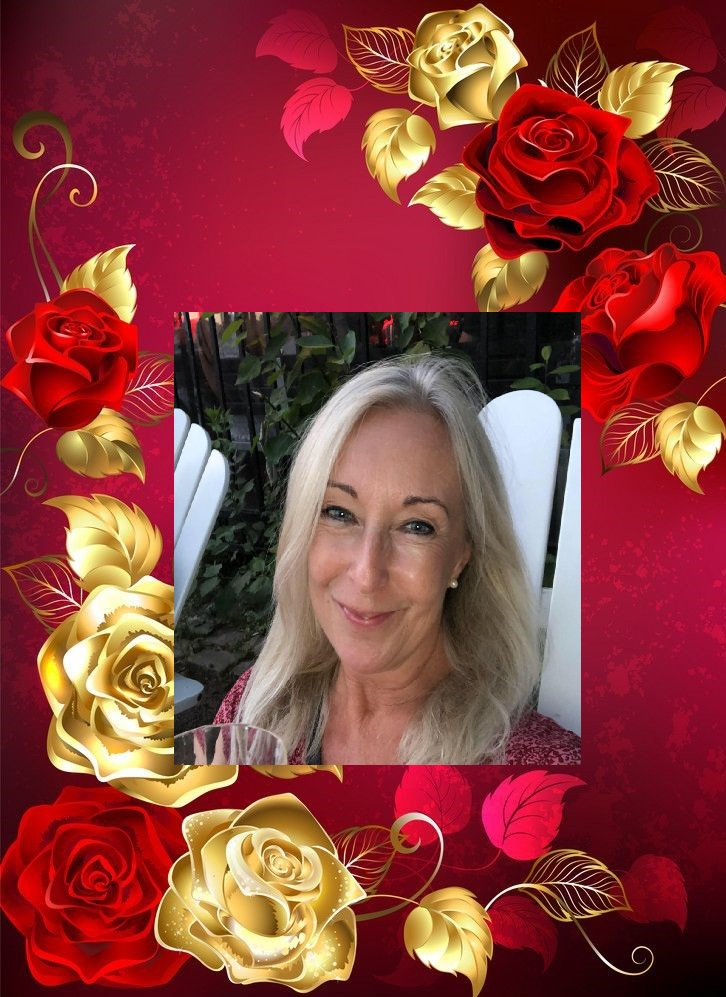
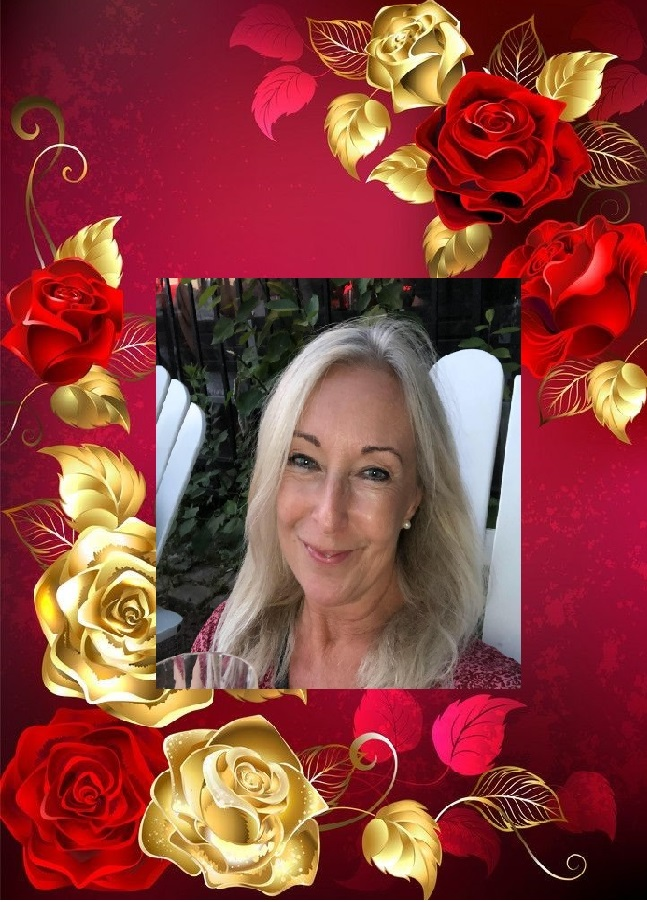
update

diff --git a/somewords.html b/somewords.html
@@ -20,15 +20,13 @@
             <h1>Hälsningar från dina nära och kära!</h1>
         </div><br>
 
-        <div style="color: goldenrod; text-align: left;">
-            <p style="text-align:left;">
-                "Gratulerar i efterskott" - Mommo Gu
-                <span style="float:right;">
-                    "59 år fyllda, varav 34 år som mamma. <br> 
-                    Tack för du alltid finns där i vått och torrt.<br>
-                    Min fantastiska mamma" - Daniel 
-                    
-                </span>
+        <div style="color: goldenrod; text-align: center;">
+            <p>
+                "Gratulerar i efterskott" - Mommo Gu<br><br>
+
+                "59 år fyllda, varav 34 år som mamma. <br>
+                Tack för du alltid finns där i vått och torrt.<br>
+                Min fantastiska mamma" - Daniel<br><br>
             </p>
         </div>
     </div>

diff --git a/favoritemusic.html b/favoritemusic.html
@@ -19,7 +19,7 @@
             <h1>Njut av musik bara för dig!</h1>
         </div>
 
-        <div style="text-align: center; color: goldenrod;">
+        <div style="text-align: center; color: goldenrod; padding: auto;" >
             <h3>Foreigner - I want to know what Love is</h3>
             <iframe width="560" height="315" src="https://www.youtube.com/embed/r3Pr1_v7hsw"
                 title="YouTube video player" frameborder="0"

diff --git a/index.html b/index.html
@@ -20,7 +20,7 @@
         </div>
 
         <div style="text-align: center; margin-left: 1ch; margin-right: 1ch;">
-            <img src="images/roses.jpg" style="border-style: solid; border-color: gold;">
+            <img src="images/roses.jpg" width="400" style="border-style: solid; border-color: gold;">
             <br><br><br><br><br>
         </div>
     </div>
